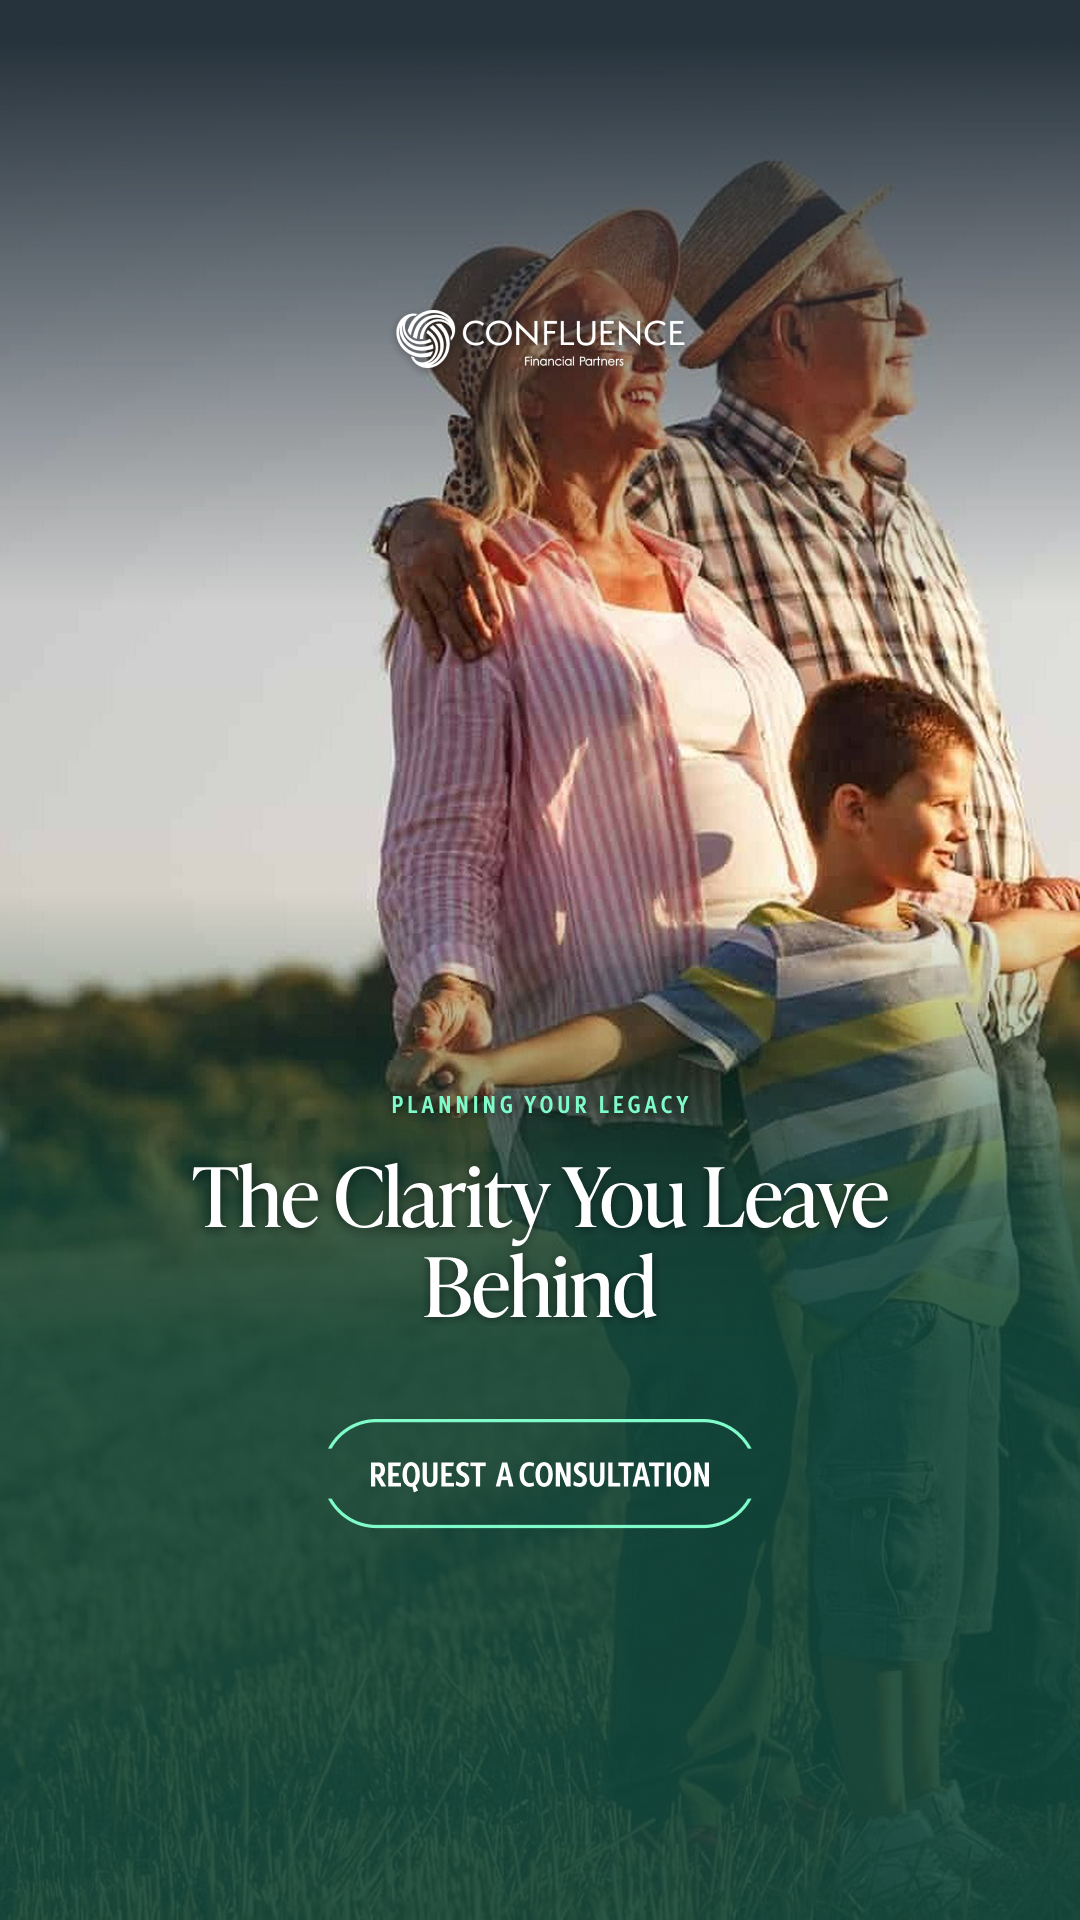
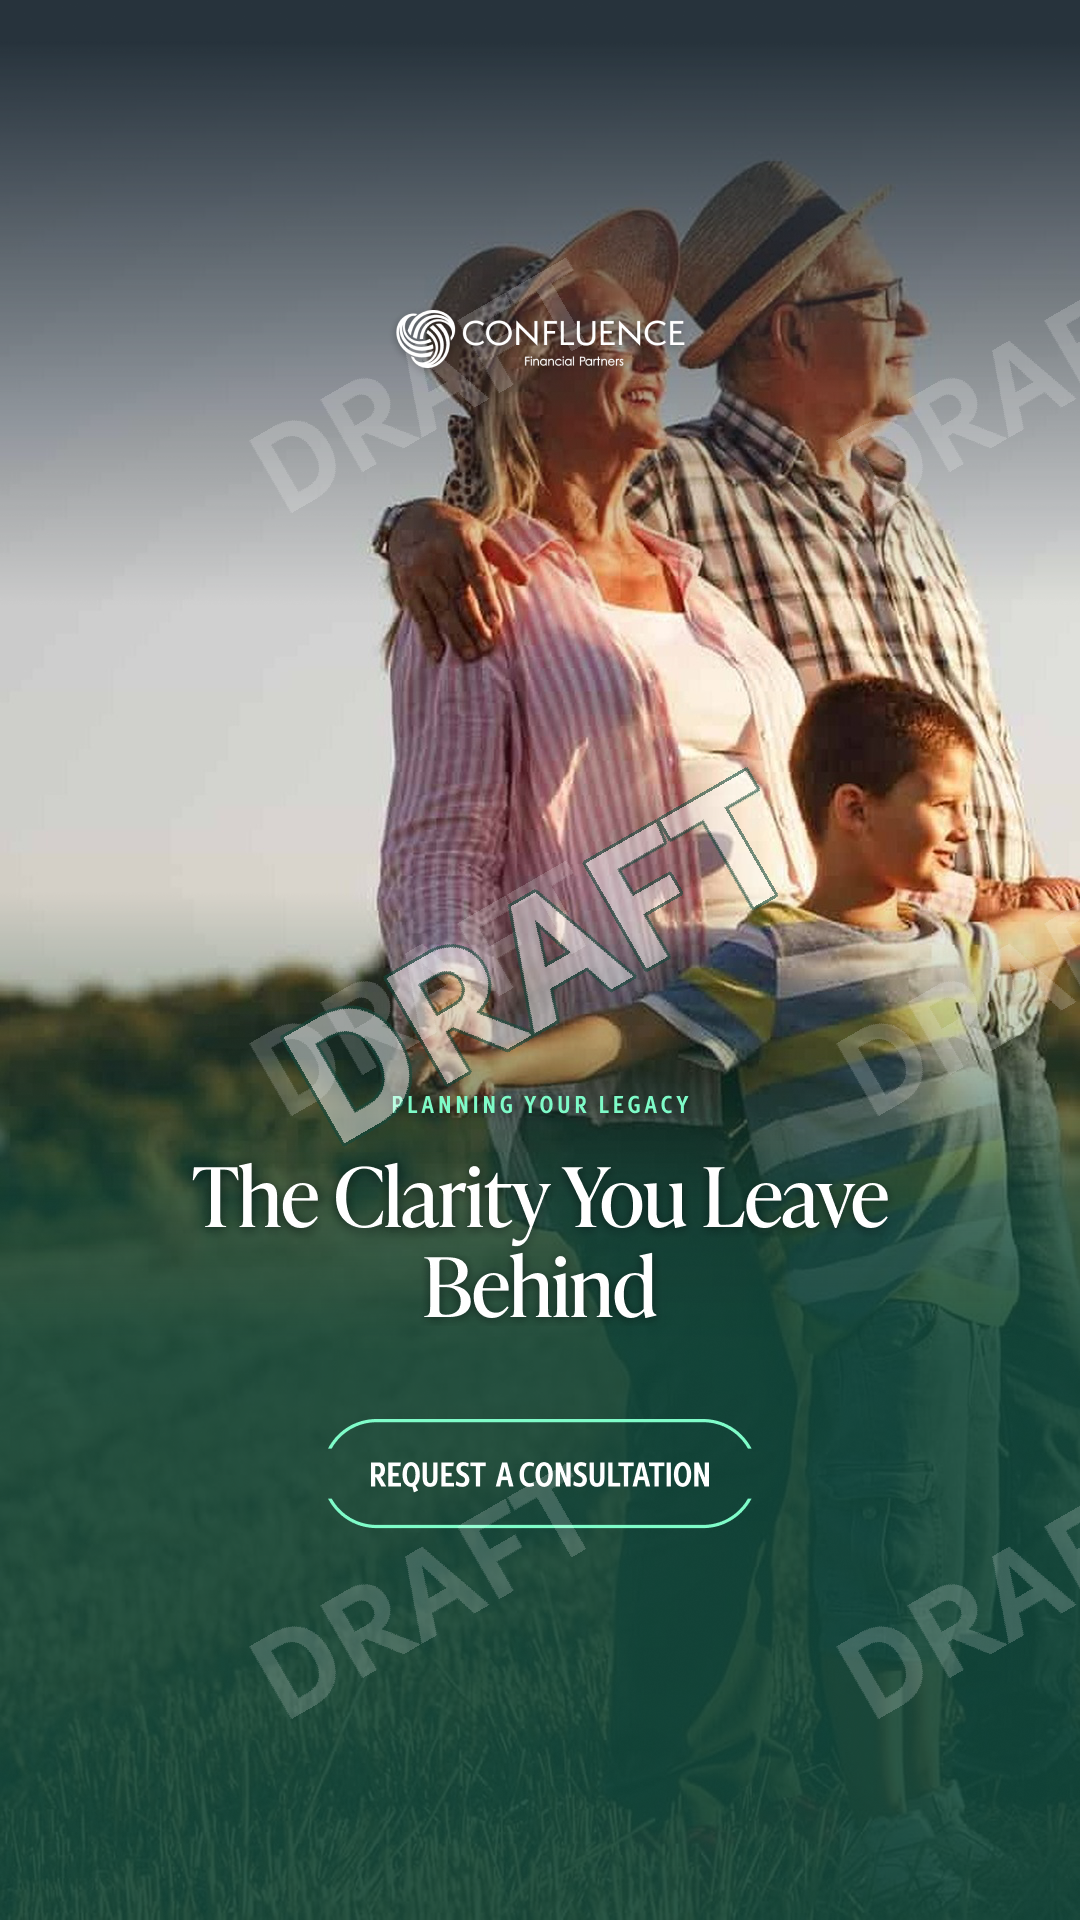
Legacy (ad5/ad6) DRAFT-watermarked for review — awaiting Mayo's hand; clean originals in images-backup-premayo

diff --git a/confluence-fp-consultation/index.html b/confluence-fp-consultation/index.html
@@ -1199,7 +1199,7 @@ let _activeImageVersion = {};
 let _placementIdx = {};
 let _feedbackCache = {};
 const CAMPAIGN_ID = 'confluence-fp-consultation';
-const ASSET_V = '1785427961';  // cache-bust token, stamped at bake time
+const ASSET_V = '1785428961';  // cache-bust token, stamped at bake time
 
 // ── Utility ────────────────────────────────────────────────────────────────
 function esc(s) {
